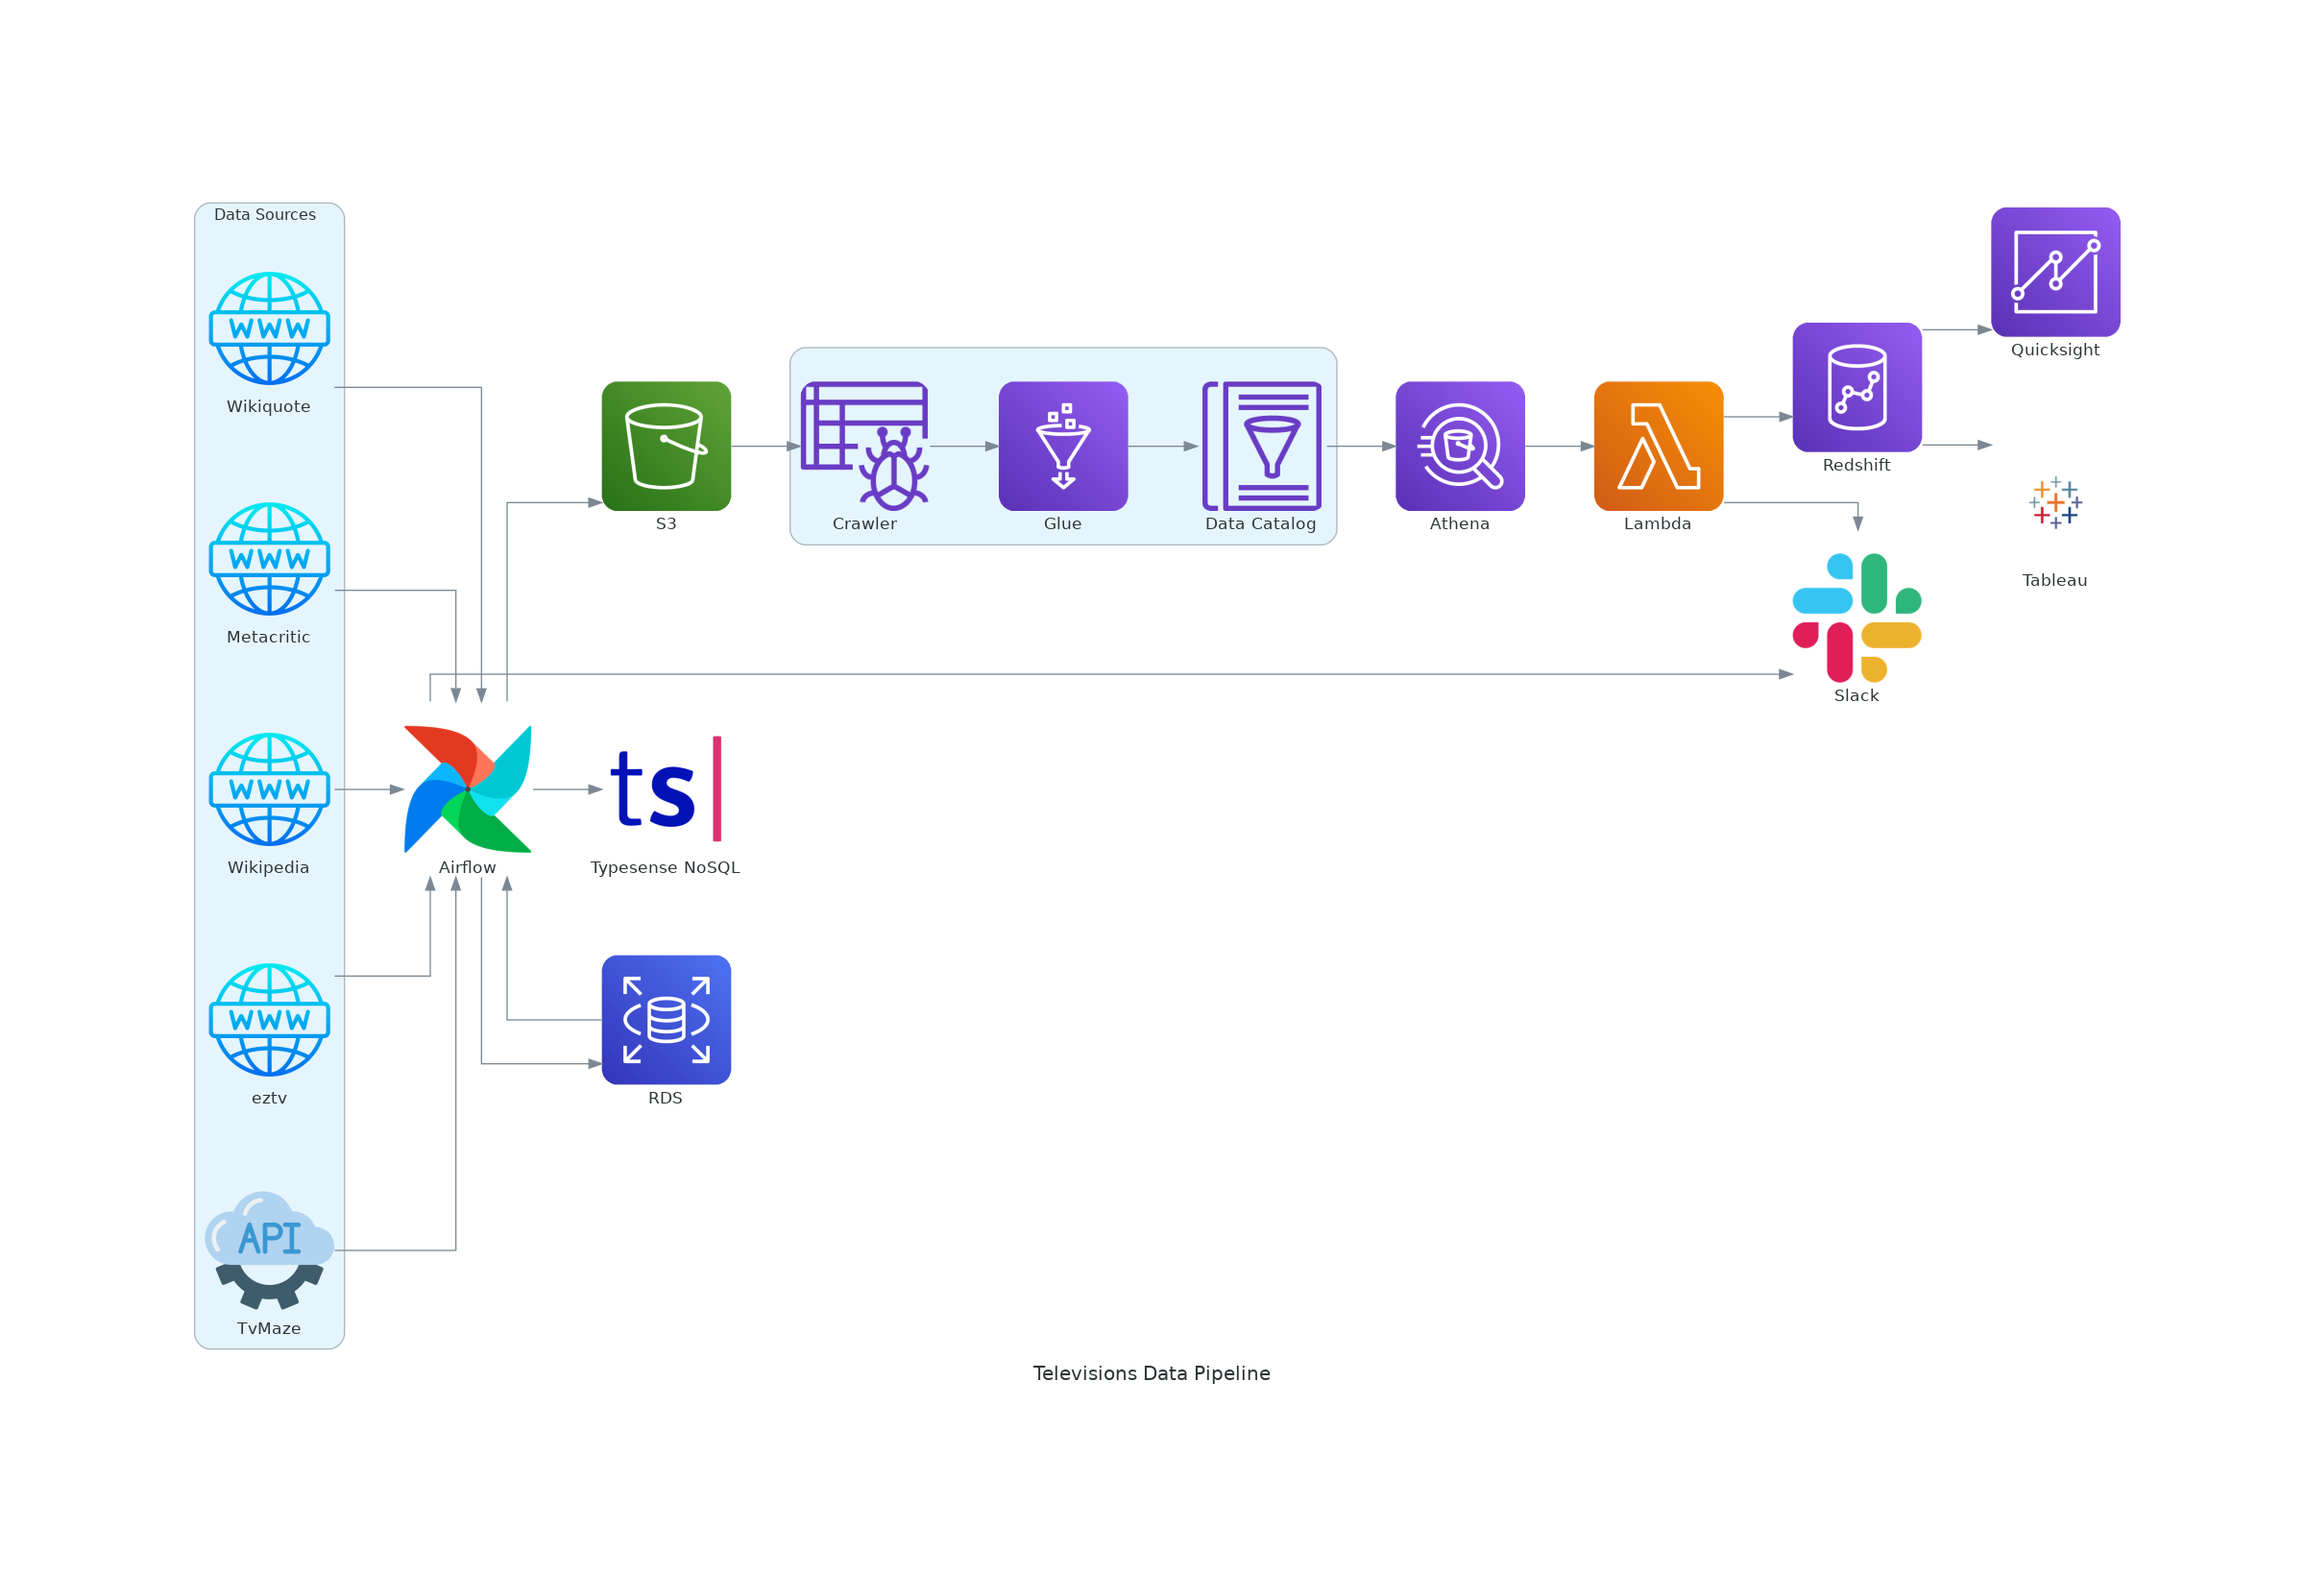
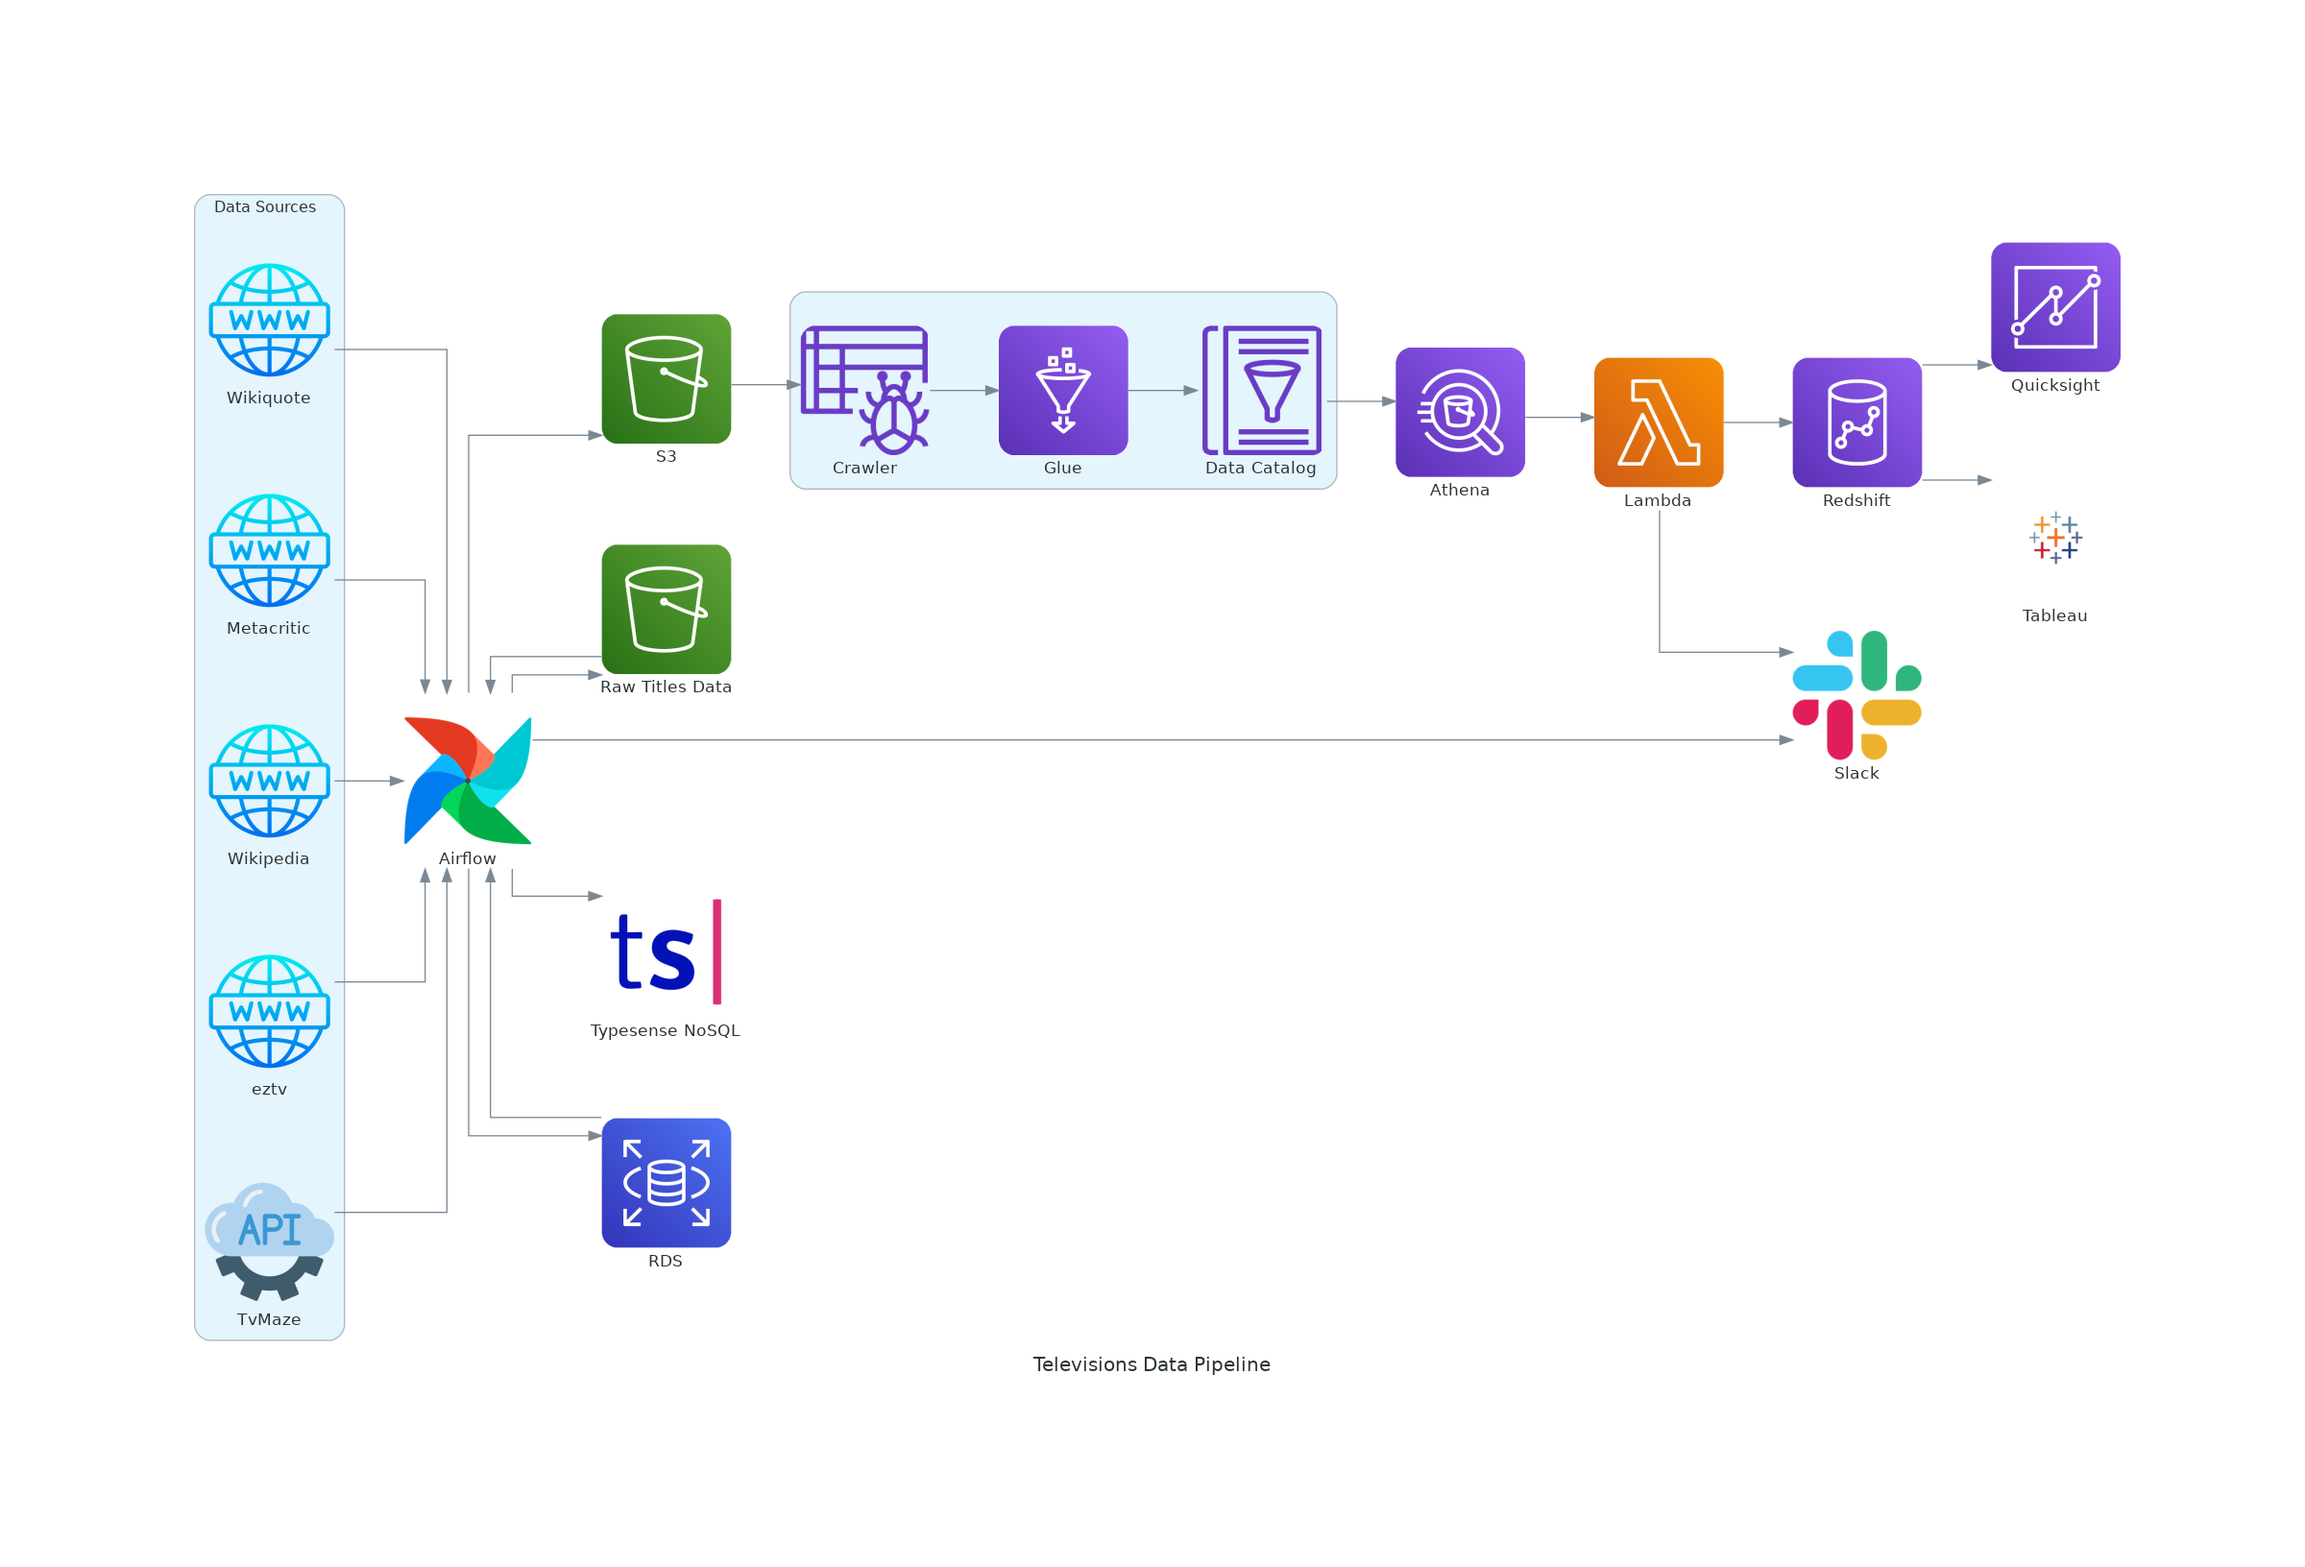
feat: finalize the inital version of all scrapers

diff --git a/scrapers/detailed/detail_scraper_reviews_metacritic.py b/scrapers/detailed/detail_scraper_reviews_metacritic.py
@@ -1,8 +1,139 @@
+import json
+import requests
+from time import sleep
+from bs4 import BeautifulSoup
+
+
+headers = {
+    "authority": "www.metacritic.com",
+    "scheme": "https",
+    "Accept": "text/html,application/xhtml+xml,application/xml",
+    "Accept-Encoding": "gzip, deflate, br",
+    "Accept-Language": "en-US,en;q=0.5",
+    "Cache-Control": "max-age=0",
+    "Sec-Ch-Ua": """Not/A)Brand";v="99", "Brave";v="115", "Chromium";v="115""",
+    "Sec-Ch-Ua-Platform": "Linux",
+    "Sec-Fetch-Dest": "ocument",
+    "Sec-Fetch-Mode": "navigate",
+    "Sec-Fetch-Site": "same-origin",
+    "Sec-Fetch-User": "?1",
+    "Sec-Gpc": "1",
+    "Upgrade-Insecure-Requests": "1",
+    "User-Agent": "Mozilla/5.0 (X11; Linux x86_64) AppleWebKit/537.36 (KHTML, like Gecko) Chrome/115.0.0.0 Safari/537.36",
+}
+
+
+def reformat_url_to_be_uniform(url):
+    return url.split('/season-')[0]
+
+
+def does_page_exists(soup_object, type):
+    if type == 'user':
+        no_data = soup_object.find('div', string="No reviews yet.")
+        if no_data:
+            return False
+        return True
+    else:
+        return False
+
+
+def check_and_get_pages(initial, type):
+    print("Checking for multiple pages")
+    urls = []
+
+    response = requests.get(initial, headers=headers)
+    assert response.status_code == 200
+
+    page = 0
+    while True:
+        print(f'Checking page: {page}')
+        page_url = f'{initial}?page={page}'
+        response = requests.get(page_url,  headers=headers)
+        assert response.status_code == 200
+
+        soup = BeautifulSoup(response.text, 'html.parser')
+
+        if not does_page_exists(soup, type=type):
+            print('Done looking for pages')
+            return urls
+
+        urls.append(page_url)
+        page += 1
+
+        sleep(1)
+
+
+def extract_reviews_for_critic_page(initial_url):
+    reviews = []
+
+    print(f'Scraping critic review-page: {initial_url}')
+
+    response = requests.get(initial_url, headers=headers)
+    assert response.status_code == 200
+
+    soup = BeautifulSoup(response.text, 'html.parser')
+
+    div_elements = soup.find_all('div', class_='review')
+    assert div_elements is not None
+
+    for div in div_elements:
+        a_tags = div.find_all('a', class_='no_hover')
+        assert a_tags is not None
+
+        for a_tag in a_tags:
+            reviews.append(a_tag.get_text().strip())
+
+    print(f'Done with critic review-page')
+
+    return reviews
+
+
+def extract_reviews_for_user_page(initial_url):
+    reviews = []
+
+    urls = check_and_get_pages(initial_url, type='user')
+
+    for url in urls:
+        print(f'Scraping user review-page: {url}')
+
+        response = requests.get(url, headers=headers)
+        assert response.status_code == 200
+
+        soup = BeautifulSoup(response.text, 'html.parser')
+
+        div_elements = soup.find_all('div', class_='review_body')
+        assert div_elements is not None
+
+        for div in div_elements:
+            span = div.find('span')
+            assert span is not None
+
+            reviews.append(span.get_text())
+
+        print(f'Done with user review-page')
+
+    return reviews
 
 
 def get_reviews_for_show(url):
-    pass
+    uniform_url = reformat_url_to_be_uniform(url)
+
+    critic_review_url = f'{uniform_url}/critic-reviews'
+    extracted_critic_reviews = extract_reviews_for_critic_page(
+        critic_review_url)
+
+    user_review_url = f'{uniform_url}/user-reviews'
+    extracted_user_reviews = extract_reviews_for_user_page(user_review_url)
+
+    sleep(3)
+
+    return {'critics': extracted_critic_reviews,
+            'users': extracted_user_reviews}
 
 
 def get_detailed_info_about_all():
     pass
+
+
+print(json.dumps(get_reviews_for_show(
+    'https://www.metacritic.com/movie/meg-2-the-trench')))

diff --git a/scrapers/detailed/detail_scraper_episode_quotes.py b/scrapers/detailed/detail_scraper_episode_quotes.py
@@ -1,54 +1,77 @@
 import requests
 from bs4 import BeautifulSoup
 from time import sleep
-import json
-import re
 
 
 base_url = 'https://en.wikiquote.org/wiki/'
 
 
-def check_for_nested_seasons(url):
+def check_for_nested_seasons(title_url_encoded):
+    print(f'Starting check for seasons for {title_url_encoded}')
+
     urls = []
-    # check if (season_1) gets anything and if yes paginate until we have the urls of all pages that have something
-    # else return the url
-    pass
+
+    initial = f'{base_url}{title_url_encoded}'
+    response = requests.get(initial)
+    assert response.status_code == 200
+
+    season = 1
+    while True:
+        season_url = f'{base_url}{title_url_encoded}_(season_{season})'
+        response = requests.get(season_url)
+
+        if response.status_code == 404 and season == 1:
+            print('No seasons found')
+            return [title_url_encoded]
+
+        elif response.status_code == 404:
+            print(f'Found seasons: {urls}')
+            return urls
+
+        elif response.status_code == 200:
+            urls.append(f'{title_url_encoded}_(season_{season})')
+            season += 1
+
+        sleep(2)
 
 
 def scrape_page_for_quotes(soup):
-
     quotes = []
 
     dd_elements = soup.find_all("dd")
+    assert dd_elements is not None
+
     for dd in dd_elements:
         quotes.append(dd.get_text())
 
     return quotes
 
 
-def get_quotes_from_show(url):
-    tv_quotes = {'url': '',
+def get_quotes_from_show(title_url_encoded):
+    """
+    title can come from wikiquotes url or wikipedia url (same format for titles in url)
+    """
+    print(f'Starting page: {title_url_encoded}')
+
+    tv_quotes = {'urls': [],
                  'quotes': []}
 
-    url_element = f'{base_url}{url}'
-    tv_quotes['url'] = url_element
-
-    print(f'Starting Page: {url_element}')
-
-    for current_url in check_for_nested_seasons(url):
-
-        response = requests.get(current_url)
+    for current_url in check_for_nested_seasons(title_url_encoded):
+        print(f'Starting sub-page: {current_url}')
+        response = requests.get(f'{base_url}{current_url}')
         assert response.status_code == 200
 
         soup = BeautifulSoup(response.text, 'html.parser')
         quotes = scrape_page_for_quotes(soup)
+
+        tv_quotes['urls'].append(f'{base_url}{current_url}')
         tv_quotes['quotes'].extend(quotes)
 
-        print(f'Page done')
+        print(f'Sub-page done')
         sleep(3)
 
-
-print(json.dumps(get_quotes_from_show('ICarly')))
+    print(f'Page done')
+    return tv_quotes
 
 
 def get_detailed_info_about_all():

diff --git a/scrapers/detailed/detail_scraper_general_info_wikipedia.py b/scrapers/detailed/detail_scraper_general_info_wikipedia.py
@@ -1,5 +1,4 @@
 import wikipediaapi
-import json
 
 wikipedia_searcher = wikipediaapi.Wikipedia('wikipedia api', 'en')
 
@@ -23,6 +22,8 @@ def format_text_to_sections(text):
 
 
 def get_wikipedia_info(title):
+    print(f'Starting page: {title}')
+
     page = wikipedia_searcher.page(title)
 
     if not page.exists():
@@ -30,10 +31,13 @@ def get_wikipedia_info(title):
 
     title = page.title
     text = page.text
+    url = page.fullurl
 
     output = {'title': title,
+              'url': url,
               'sections': format_text_to_sections(text)}
 
+    print(f'Page done')
     return output
 
 

diff --git a/doc/diagram.py b/doc/diagram.py
@@ -33,6 +33,10 @@ with Diagram('Televisions Data Pipeline', show=False, filename='doc/data_pipelin
     s3 = S3('S3')
     airflow >> load_edge >> s3
 
+    s3_saving = S3('Raw Titles Data')
+    airflow >> Edge() >> s3_saving
+    s3_saving >> Edge() >> airflow
+
     with Cluster(''):
         crawler = GlueCrawlers('Crawler')
         glue = Glue('Glue')
